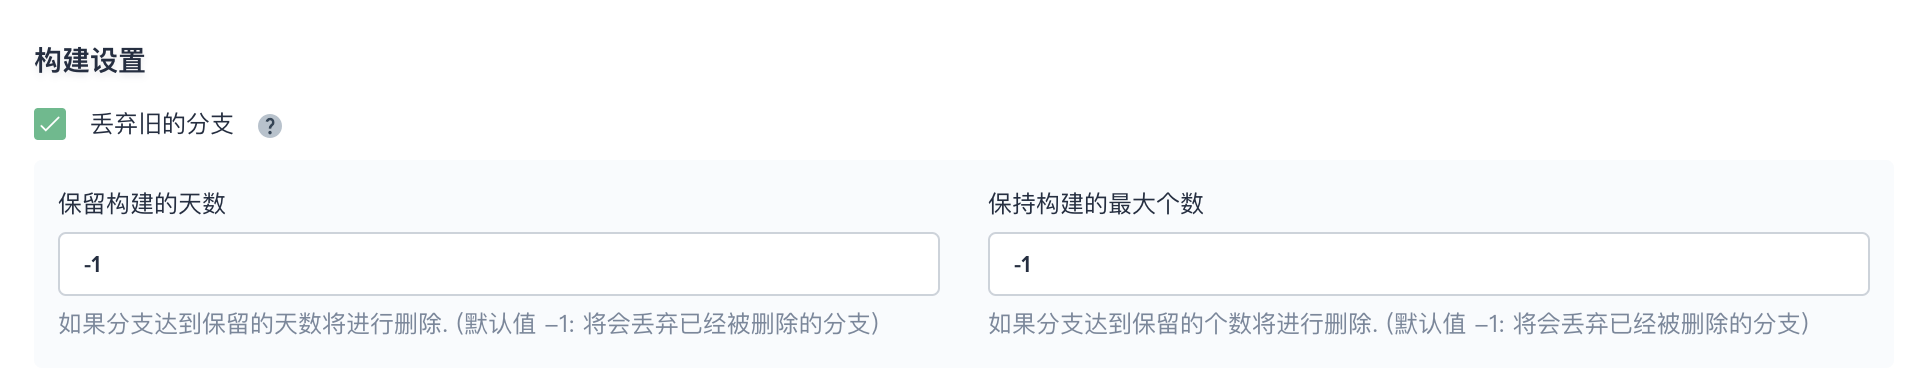
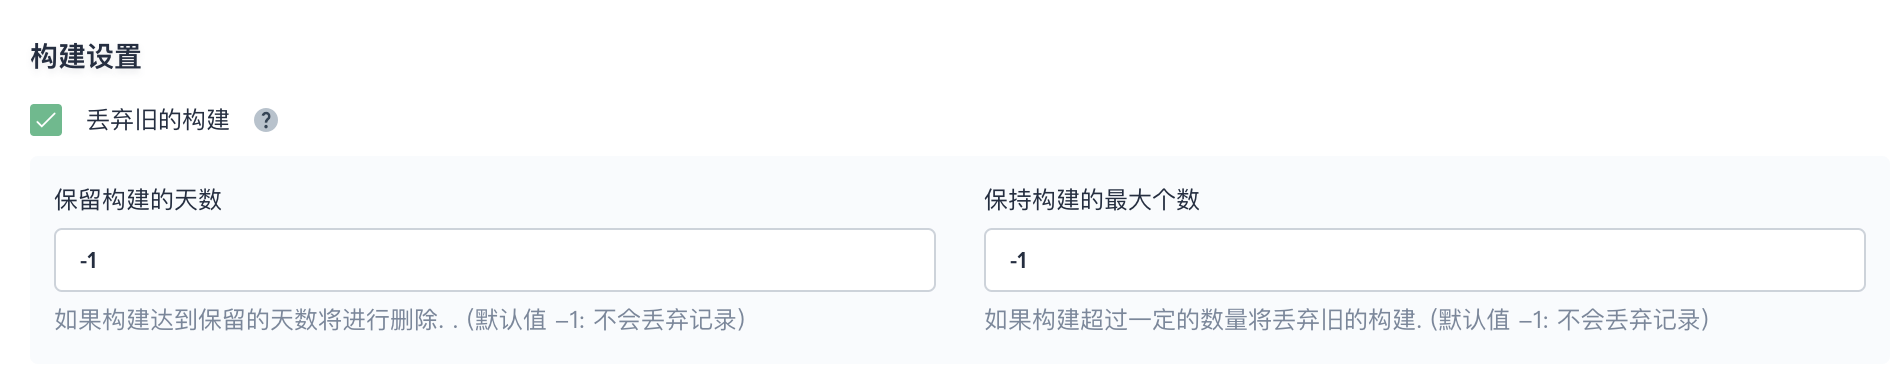
update jenkinsfile-in-scm guide

diff --git a/content/advanced-v1.0.0/zh-CN/faq.md b/content/advanced-v1.0.0/zh-CN/faq.md
@@ -84,9 +84,6 @@ nameserver 100.64.9.5
 答：可能由于网络问题造成，建议尝试再次运行该流水线。
 
 
-> 说明：
-> 若您在使用中遇到任何产品相关的问题，欢迎在 [GitHub Issue](https://github.com/kubesphere/docs.kubesphere.io/issues) 提问。
-
 6、如何查看 Kubeconfig 文件？
 
 用户可以通过打开 Kubectl UI 查看 Kubeconfig 文件，仅管理员或拥有 Kubectl UI 权限的用户有权限。
@@ -95,4 +92,7 @@ nameserver 100.64.9.5
 
 7、如何访问和登录 Jenkins 服务端？
 
-Installer 安装将会同时部署 Jenkins Dashboard，该服务暴露的端口 (NodePort) 为 `30180`，访问公网 IP 和端口号 (${EIP}:${NODEPORT}) 即可。Jenkins 已对接了 KubeSphere 的 LDAP，因此可使用用户名 `admin` 和 KubeSphere 集群管理员的密码登录 Jenkins Dashboard。
+Installer 安装将会同时部署 Jenkins Dashboard，该服务暴露的端口 (NodePort) 为 `30180`，确保外网流量能够正常通过该端口，然后访问公网 IP 和端口号 (${EIP}:${NODEPORT}) 即可。Jenkins 已对接了 KubeSphere 的 LDAP，因此可使用用户名 `admin` 和 KubeSphere 集群管理员的密码登录 Jenkins Dashboard。
+
+> 说明：
+> 若您在使用中遇到任何产品相关的问题，欢迎在 [GitHub Issue](https://github.com/kubesphere/docs.kubesphere.io/issues) 提问。

diff --git a/content/advanced-v1.0.0/zh-CN/quick-start/jenkinsfile-in-scm.md b/content/advanced-v1.0.0/zh-CN/quick-start/jenkinsfile-in-scm.md
@@ -157,11 +157,13 @@ CI/CD 流水线会根据文档网站项目的 [yaml 模板文件](https://github
 
 完成代码仓库相关设置后，进入高级设置页面，高级设置支持对流水线的构建记录、行为策略、定期扫描等设置的定制化，以下对用到的相关配置作简单释义，完成设置后点击创建。
 
-1、此处勾选 `丢弃旧的构建`，此处 **保留构建的天数** 和 **保持构建的最大个数** 默认为 -1，表示如果分支被删除后也就没必要继续保存了。
+1、构建设置中，勾选 `丢弃旧的构建`。
 
 ![构建设置](/build-setting.png)
 
 **构建设置**
+
+此处的 **保留构建的天数** 和 **保持构建的最大个数** 默认为 -1，这两个选项可以同时对构建进行作用，如果超出任一限制，则将丢弃超出该限制的任何构建。默认两个值为 -1，表示不自动删除构建。
 
 **丢弃旧的构建** 将确定何时应丢弃项目的构建记录。构建记录包括控制台输出，存档工件以及与特定构建相关的其他元数据。保持较少的构建可以节省 Jenkins 所使用的磁盘空间，我们提供了两个选项来确定应何时丢弃旧的构建：
 
